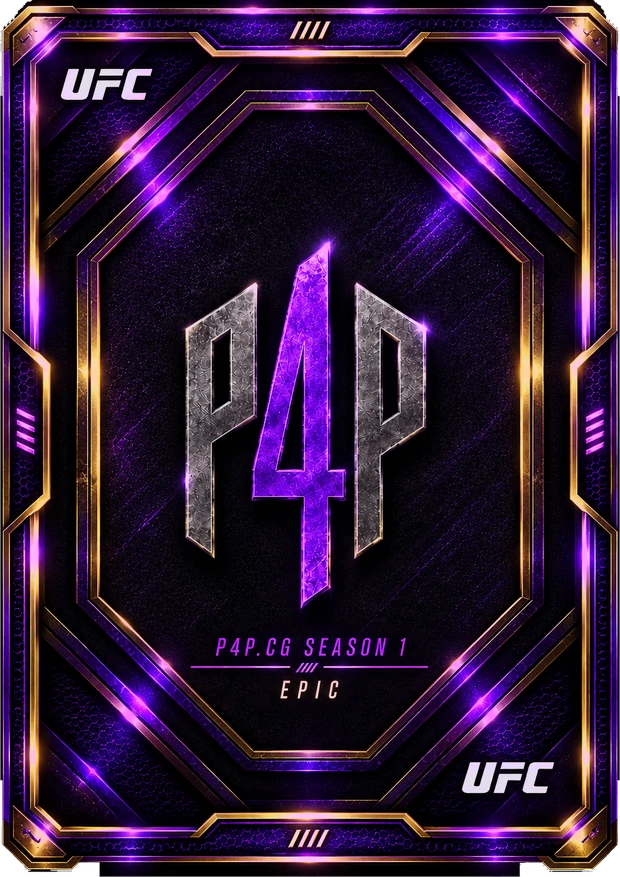
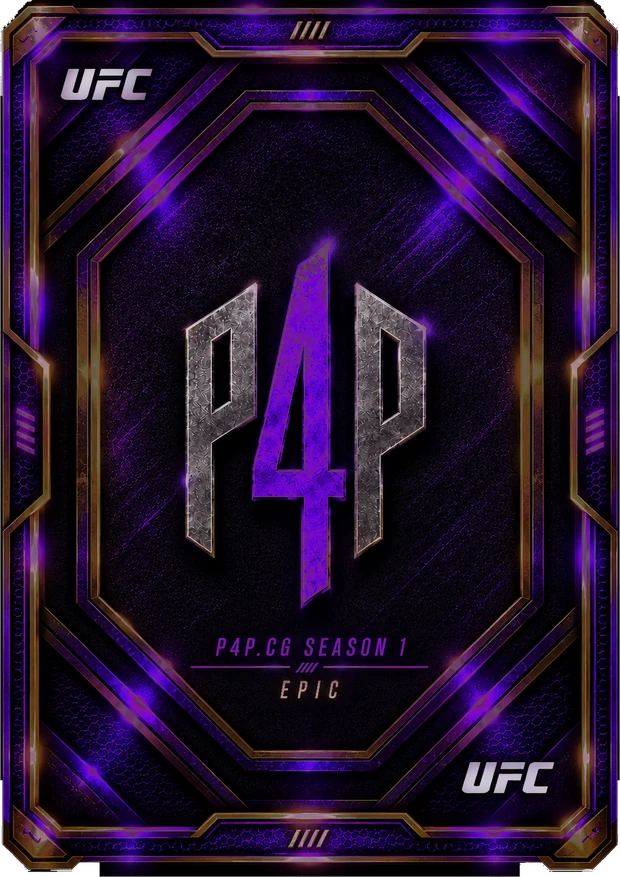
El resplandor late, y una maqueta suelta para verlo
Lo pidió él: la luz "constante de la misma zona pero animado".

CADA MARCO SALE PARTIDO EN DOS. preparar-marcos-rareza.py escribe ahora
"raro.webp" con el resplandor apagado al 42% y "raro-luz.webp" con el
resplandor solo, en los colores del original y transparente donde no hay
luz. El juego los pone uno encima del otro y anima SÓLO la opacidad de la
capa de arriba: al 100% la carta es exacta al archivo que él pasó, al 45%
la misma con la luz baja. No se desplaza ni cambia de tono, son sus
propios píxeles.

Con la mezcla normal basta —`apagado·(1−a) + original·a`, y el apagado ES
el original multiplicado en esas mismas zonas—, así que no hace falta
mix-blend-mode ni nada que un WebView viejo pueda no tener.

Qué cuenta como resplandor: la luz pesada por el COLOR (luminancia de
0,20 a 0,55, por saturación hasta 0,35). Lo segundo no es adorno: sin
ello el "UFC" y el "P4P" del reverso, que son blancos, se pondrían a
parpadear como neón.

La capa de luz va a calidad 72: es difusa y sin cantos, no se le nota, y
a 90 duplicaba el peso del marco en el APK.

Y herramientas/maqueta-rarezas.mjs saca una página de un solo archivo con
las tres cartas y todo metido dentro como data: URI, para verlo en marcha
sin el resto del juego. NO reescribe la carta: el CSS y el HTML salen del
propio juego.html, así que la maqueta no puede separarse de la app.

Claude-Session: https://claude.ai/code/session_01Q8uMRd1eE1CcD1KKSExrSc

diff --git a/juego/juego.html b/juego/juego.html
@@ -751,10 +751,12 @@ button{font:inherit;color:inherit;background:none;border:none;cursor:pointer}
   --c-encaje:1; --c-cromo:var(--cromo)}
 .carta.raro,.naipe.raro{--c-marco:url(marcos/raro.webp);
   --c-marco-rev:url(marcos/raro-reverso.webp);
+  --c-luz:url(marcos/raro-luz.webp); --c-luz-rev:url(marcos/raro-reverso-luz.webp);
   --c-acc:#2e85e9; --c-acc-suave:#7cc8fb; --c-filete:rgba(61,171,247,.55); --c-encaje:.896;
   --c-cromo:linear-gradient(180deg,#ffffff 0%,#dde9f6 38%,#7fa8cf 55%,#eef5fc 74%,#a9c4de 100%)}
 .carta.epico,.naipe.epico{--c-marco:url(marcos/epico.webp);
   --c-marco-rev:url(marcos/epico-reverso.webp);
+  --c-luz:url(marcos/epico-luz.webp); --c-luz-rev:url(marcos/epico-reverso-luz.webp);
   --c-acc:#b669e6; --c-acc-suave:#dd8bf7; --c-filete:rgba(182,105,230,.55); --c-encaje:.873;
   --c-cromo:linear-gradient(180deg,#ffffff 0%,#ece0f6 38%,#a68bc4 55%,#f5eefc 74%,#c9b2de 100%);
   --c-cromo-num:linear-gradient(180deg,#fee0a8 0%,#fccc82 38%,#c68946 55%,#fed492 74%,#d9a45e 100%)}
@@ -798,6 +800,31 @@ button{font:inherit;color:inherit;background:none;border:none;cursor:pointer}
    el hueco libre que deja su borde por dentro. */
 .carta .marco{position:absolute;inset:0;z-index:0;
   background:var(--c-marco) center/100% 100% no-repeat}
+
+/* EL RESPLANDOR RESPIRA, Y NO SE MUEVE DE SITIO. Lo pidió él: la luz "del color de esas
+   zonas en la carta", "constante de la misma zona pero animado".
+
+   Cada marco viene partido en dos por herramientas/preparar-marcos-rareza.py: el archivo
+   de abajo es el marco con la luz APAGADA y éste el resplandor solo, con los colores del
+   original y transparencia donde no hay luz. Lo único que se anima es la OPACIDAD de esta
+   capa, así que el resplandor no se desplaza ni cambia de tono: son sus propios píxeles,
+   más o menos presentes. Al 100% la carta es exacta al archivo que él pasó.
+
+   Sin `--c-luz` no se pinta nada: la común no tiene resplandor que animar.
+
+   Va con `will-change:opacity` porque en una hoja de 16 cartas son 16 capas animándose a
+   la vez, y sin ella el navegador repinta el marco entero en cada fotograma. */
+.carta .luz{position:absolute;inset:0;z-index:0;pointer-events:none;
+  background:var(--c-luz) center/100% 100% no-repeat;
+  will-change:opacity;animation:latido 3.6s ease-in-out infinite}
+.carta.tapada::after,.naipe .cara.dorso > .recorte::after{content:'';position:absolute;
+  inset:0;pointer-events:none;background:var(--c-luz-rev) center/100% 100% no-repeat;
+  will-change:opacity;animation:latido 3.6s ease-in-out infinite}
+@keyframes latido{0%,100%{opacity:1}50%{opacity:.45}}
+/* Quien haya pedido menos movimiento en su móvil se queda con la carta a plena luz. */
+@media (prefers-reduced-motion:reduce){
+  .carta .luz,.carta.tapada::after,.naipe .cara.dorso > .recorte::after{animation:none}
+}
 
 /* EL CONTENIDO SE ENCOGE HASTA EL HUECO DE SU MARCO, y no es cosmética: los tres marcos
    NO dejan el mismo hueco. Medido con una rejilla de 5% encima de cada uno, igual que se
@@ -939,7 +966,8 @@ button{font:inherit;color:inherit;background:none;border:none;cursor:pointer}
 /* Boca abajo: la del rival mientras no se resuelve el duelo. */
 /* Boca abajo: el REVERSO de verdad, que también lo pasó él. Antes era una trama de rayas
    dibujada con CSS porque no había reverso; ahora sí. */
-.carta.tapada{aspect-ratio:620/877;background:var(--c-marco-rev) center/100% 100% no-repeat}
+.carta.tapada{position:relative;aspect-ratio:620/877;
+  background:var(--c-marco-rev) center/100% 100% no-repeat}
 .carta.oculta{display:grid;place-items:center;background:var(--bg2);
   border:1px dashed var(--line);color:var(--dim2);aspect-ratio:620/877;border-radius:9px}
 
@@ -2300,6 +2328,7 @@ function cartaHTML(c,o={}){
   return `<div class="carta ${crz} ${foto?'confoto':''} ${o.sel?'sel':''}" ${o.attr||''}>
    <div class="lienzo">
     <div class="marco"></div>
+    <div class="luz"></div>
     <div class="hueco">
       ${foto?`<img class="c-foto" src="${foto}" alt="" loading="lazy">`:''}
     </div>

diff --git a/herramientas/preparar-marcos-rareza.py b/herramientas/preparar-marcos-rareza.py
@@ -29,6 +29,24 @@ Se arregla en dos pasos, y los dos hacen falta:
   · SE LE BAJA EL PICO. Por encima del techo la luz se comprime en vez de cortarse: cortar
     aplana el resplandor en una mancha de un solo tono y se le ve el escalón.
 
+Y CADA MARCO SALE PARTIDO EN DOS, que es lo que permite animar la luz sin moverla:
+"raro.webp" es el marco con el resplandor APAGADO y "raro-luz.webp" el resplandor solo, con
+los colores del original y transparencia donde no hay luz. El juego los pone uno encima del
+otro y lo único que anima es la opacidad de la capa de arriba: al 100% la carta es EXACTA
+al archivo que él pasó, y al 45% la misma carta con la luz baja. El resplandor no se
+desplaza ni cambia de tono —sigue siendo el de su zona, píxel por píxel—: sólo respira.
+
+Se hace así y no con `mix-blend-mode` ni sumando capas a propósito. Con la mezcla normal de
+toda la vida, poner la luz encima da `apagado·(1−a) + original·a`, y como el apagado ES el
+original multiplicado en esas mismas zonas, el resultado a opacidad 1 vuelve a ser el
+original clavado. Un modo de mezcla exótico no haría falta y sería una cosa más que puede
+no existir en un WebView viejo.
+
+QUÉ CUENTA COMO RESPLANDOR: la luz, pesada por el color. `a` sube con la luminancia entre
+0,20 y 0,55 y se multiplica por la saturación hasta 0,35. Lo segundo no es un adorno: sin
+ello entrarían el "UFC" y el "P4P" del reverso, que son blancos y plata, y se pondrían a
+parpadear como si fueran neón.
+
 Uso:  python3 herramientas/preparar-marcos-rareza.py [--muestras]
 """
 import os, sys
@@ -46,6 +64,27 @@ TECHO, COMPRESION = 210, 0.34
 # zona. Por encima, se respeta el suyo.
 SAT_MINIMA = 0.45
 DESENFOQUE = 0.03               # el radio del desenfoque, en fracción del ancho
+
+# Los dos extremos de qué es resplandor, y cuánto se apaga la capa de abajo.
+LUZ_0, LUZ_1 = 0.20, 0.55       # por debajo no es luz; por encima es luz del todo
+SAT_LUZ = 0.35                  # el color que hace falta para contar como neón
+APAGADO = 0.42                  # a cuánto se queda el resplandor en la capa de abajo
+
+
+def partirLuz(im):
+    """Devuelve (marco apagado, resplandor suelto). Sumados dan el original exacto."""
+    a = np.asarray(im.convert('RGB'), dtype=np.float32) / 255.0
+    luz = a @ np.array([0.299, 0.587, 0.114], dtype=np.float32)
+    mx, mn = a.max(2), a.min(2)
+    sat = np.where(mx > 1e-6, (mx - mn) / np.maximum(mx, 1e-6), 0.0)
+    fuerza = (np.clip((luz - LUZ_0) / (LUZ_1 - LUZ_0), 0, 1)
+              * np.clip(sat / SAT_LUZ, 0, 1))
+    base = a * (1 - fuerza * (1 - APAGADO))[..., None]
+    apagado = Image.fromarray((np.clip(base, 0, 1) * 255 + 0.5).astype(np.uint8), 'RGB')
+    brillo = Image.fromarray(
+        np.dstack([(a * 255 + 0.5).astype(np.uint8),
+                   (fuerza * 255 + 0.5).astype(np.uint8)]), 'RGBA')
+    return apagado, brillo, float(fuerza.mean())
 
 
 def apagarBrillos(im):
@@ -147,12 +186,35 @@ for orig, nom in PIEZAS:
     antes = im.size
     im, tocado = apagarBrillos(im)
     caja = cajaDelDibujo(np.asarray(im, dtype=np.float32))
-    im = recortar(im, caja).crop(caja).resize((ANCHO, ALTO), Image.LANCZOS)
-    f = f'{SALIDA}/{nom}.webp'
-    im.save(f, 'WEBP', quality=90, method=6)
-    print(f'{orig:14} {antes[0]}x{antes[1]} -> {nom}.webp  dibujo '
+
+    # El marco se parte ANTES de recortar y escalar, para que las dos capas salgan del
+    # mismo original y encajen píxel a píxel al superponerlas.
+    apagado, brillo, medio = partirLuz(im)
+    alfa = recortar(im, caja).crop(caja).resize((ANCHO, ALTO), Image.LANCZOS).getchannel('A')
+
+    capas = []
+    base = apagado.convert('RGBA').crop(caja).resize((ANCHO, ALTO), Image.LANCZOS)
+    base.putalpha(alfa)
+    capas.append((nom, base))
+
+    # El resplandor lleva el alfa de la luz multiplicado por el del recorte: fuera de la
+    # carta no puede pintar nada, o el desgarro del canto se vería doble.
+    luz = brillo.crop(caja).resize((ANCHO, ALTO), Image.LANCZOS)
+    la = np.asarray(luz.getchannel('A'), dtype=np.float32) / 255.0
+    ra = np.asarray(alfa, dtype=np.float32) / 255.0
+    luz.putalpha(Image.fromarray((la * ra * 255 + 0.5).astype(np.uint8), 'L'))
+    capas.append((nom + '-luz', luz))
+
+    tam = 0
+    for n2, im2 in capas:
+        f = f'{SALIDA}/{n2}.webp'
+        # La capa de luz va a menos calidad a propósito: es un resplandor difuso y sin
+        # cantos, así que no se le nota, y a 90 duplicaba el peso del marco en el APK.
+        im2.save(f, 'WEBP', quality=72 if n2.endswith('-luz') else 90, method=6)
+        tam += os.path.getsize(f)
+    print(f'{orig:14} {antes[0]}x{antes[1]} -> {nom}.webp + {nom}-luz.webp  dibujo '
           f'{caja[2]-caja[0]}x{caja[3]-caja[1]} (prop {(caja[2]-caja[0])/(caja[3]-caja[1]):.4f})  '
-          f'luz bajada en el {100*tocado:.2f}% de la carta  {os.path.getsize(f)//1024} kB')
+          f'luz bajada en el {100*tocado:.2f}%, resplandor en el {100*medio:.1f}%  {tam//1024} kB')
 
 if MUESTRAS:
     print('\n  Cómo queda la luz, medida igual que antes:')
